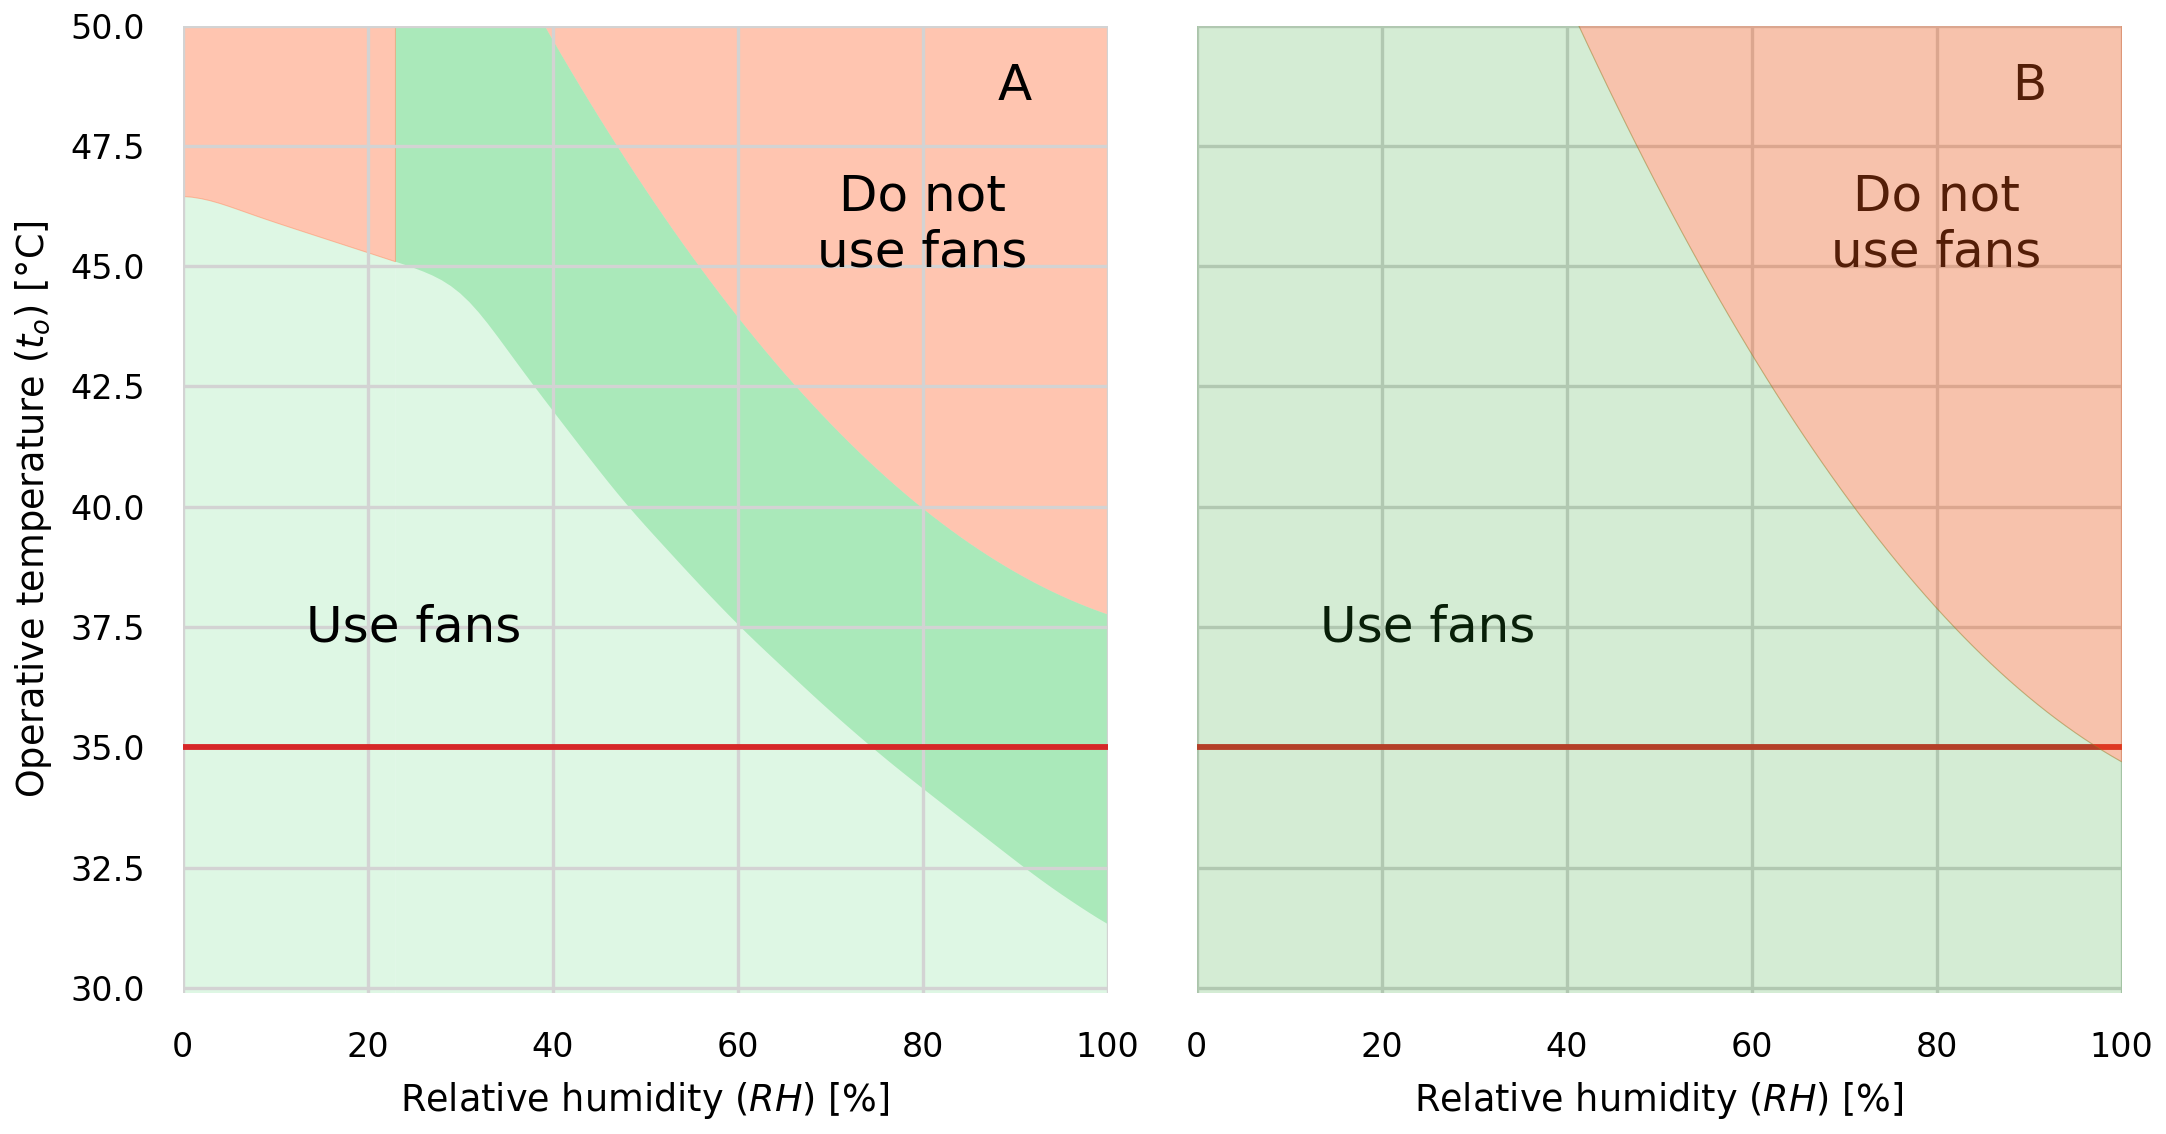
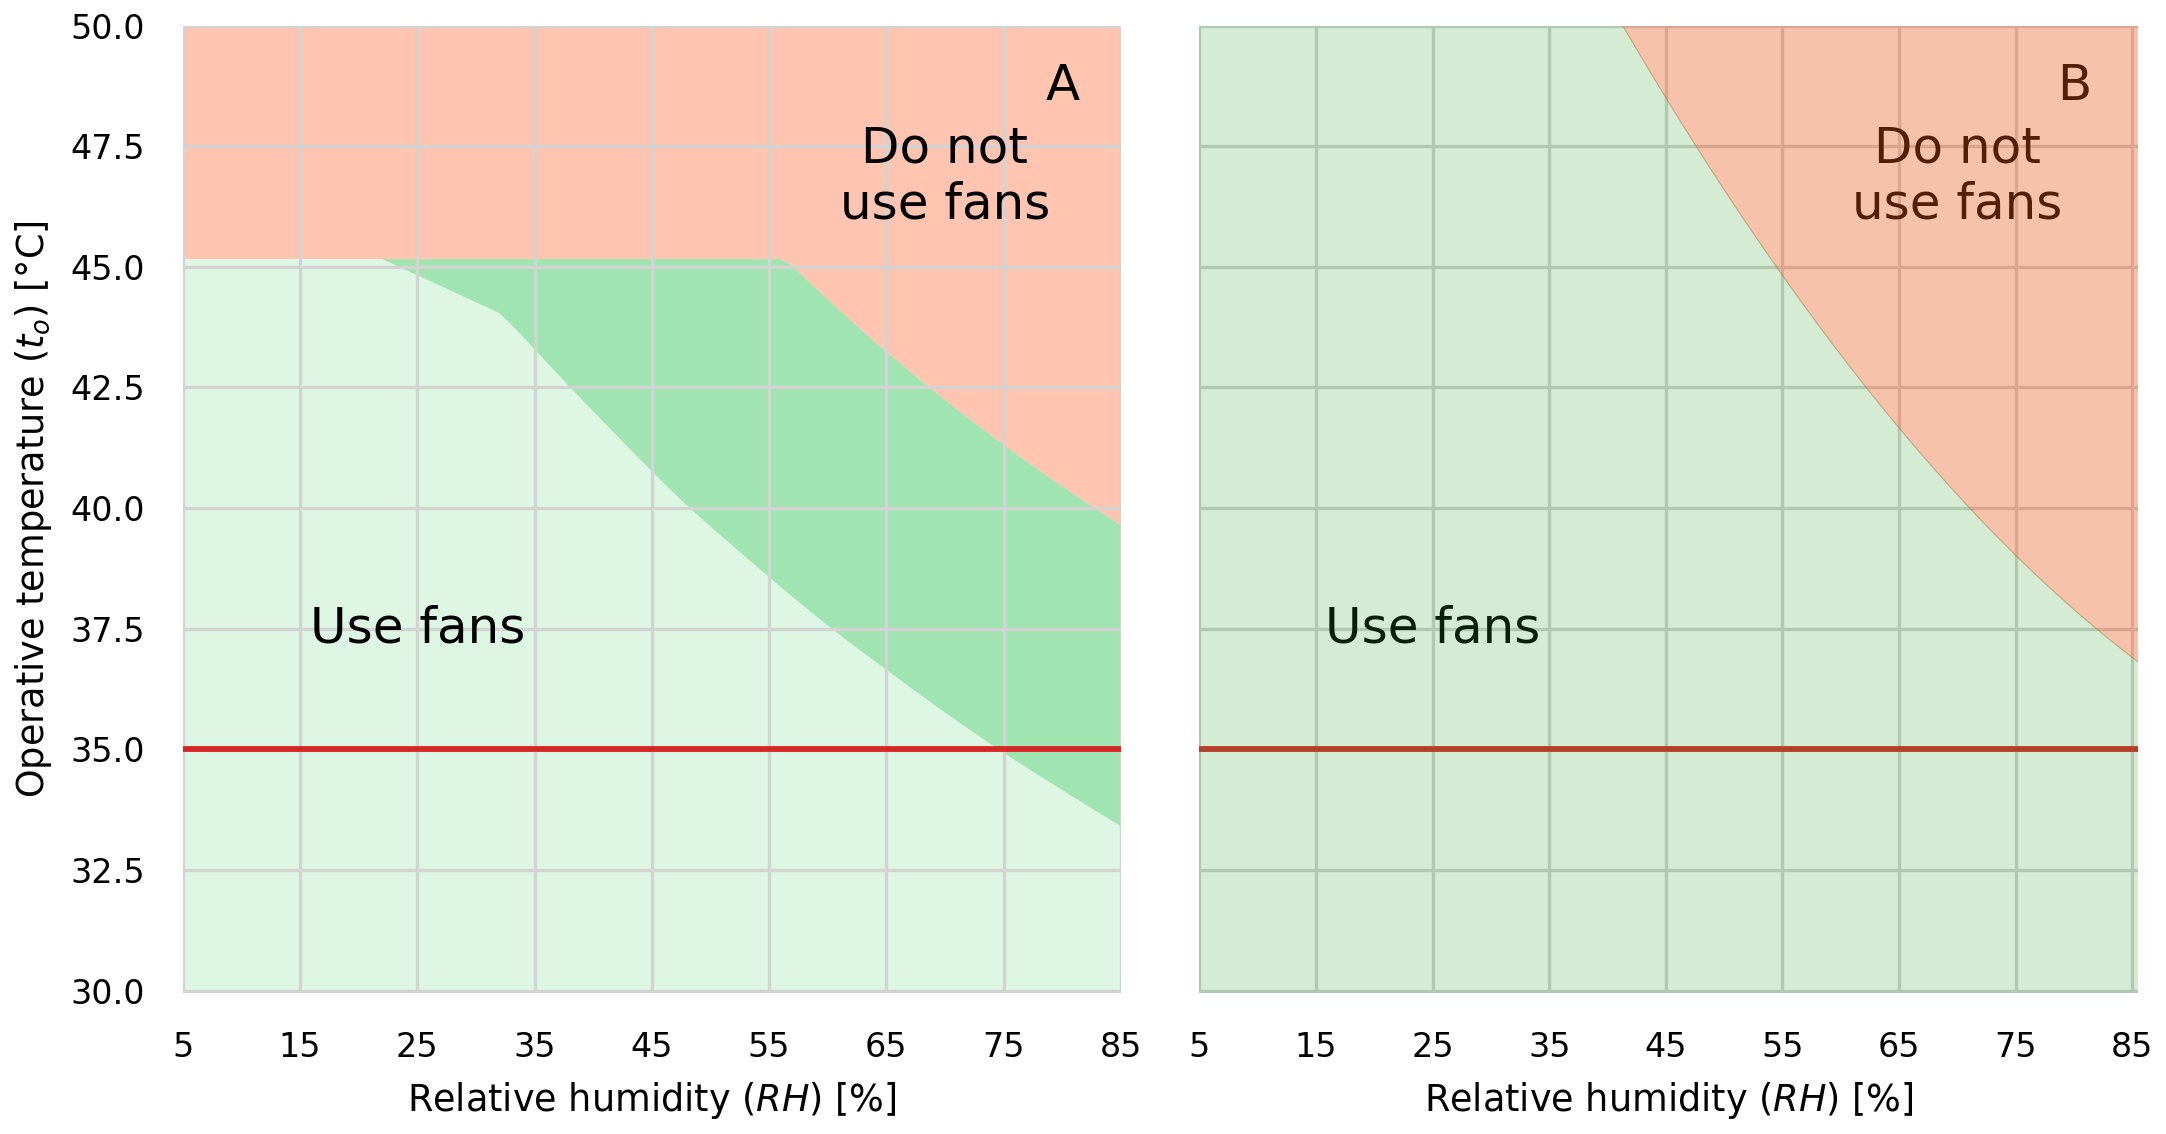
feat: generated new figures for the results section and reviewed text.

diff --git a/manuscript/src/sections/results.tex b/manuscript/src/sections/results.tex
@@ -118,27 +118,26 @@ The environmental conditions above which the use of elevated air speeds would be
 
 We used a red shading to highlight the region in which electric fans should not be used, while we used a green background to depict when elevated air speed can be used to cool the human body.
 We also plotted the lines above which thermal stress is expected to occur (see Figure~\ref{fig:comparison_air_speed} for more details).
-As previously mentioned in Section~\ref{subsec:heat-stress} where the heat stress curve for elevated air speeds is lower than the one for `still air' electric fan should not be used.
- However, as shown in Figure~\ref{fig:use_fans_experimental} the enthalpy in the great majority of this region is equal or lower than the enthalpy of the air in the green region.
- Consequently evaporative cooling can be used to first reduce \ac{t-db} to a value within the green region and subsequently electric fans can be safely used.
- Other cooling strategies, such as active cooling, can also be used to cool the air.
- However, we are emphasising the importance of using evaporative cooling since we are assuming that people who mostly rely on electric fans for cooling may not have access to compressor-based air conditioning.
+Electric fan should not be used, for \ac{t-db} higher than the one at which the heat stress curve for elevated air speeds intersect the one for `still air' conditions.
 In the dark green area, while the use of fans is still beneficial, not all adult healthy individuals would be able to compensate for endogenous and exogenous heat gains and may experience heat strain.
 
-To validate \mycite{GaggeSET} model results we used experimental data previously published.
+We also compared \mycite{GaggeSET} model results with those from laboratory-based physiological studies.
 In Figure~\ref{fig:use_fans_experimental} we present the results obtained by \mycite{Morris2019} and \mycite{Rate2015}.
 The former determined that electric fans (\ac{v}~=~2.0~m/s) are beneficial when \ac{t-db}~=~40~$^{\circ}$C and \ac{rh}~=~51~\%, but should not be used when \ac{t-db}~=~47~$^{\circ}$C and \ac{rh}~=~15~\%.
 \mycite{Rate2015} concluded that electric fans (\ac{v}~=~4.0~m/s) help in preventing heat-related elevation in heart rate and \ac{t-cr} in both of the following conditions \ac{t-db}~=~42~$^{\circ}$C and \ac{rh}~=~50~\%, and \ac{t-db}~=~36~$^{\circ}$C and \ac{rh}~=~80~\%.
 Results obtained with the \mycite{GaggeSET} model are in agreement with those obtained by both field experiments.
 
-As previously mentioned before, the enthalpy of the air in \mycite{Morris2019} experiment was lower in the scenario with higher temperature and lower \ac{rh}.
+As previously mentioned, the enthalpy of the air in \mycite{Morris2019} experiment was lower in the scenario with higher temperature and lower \ac{rh}.
 The black dashed lines, in Figure~\ref{fig:use_fans_experimental}, are isoenthalpic lines passing through the conditions studied by \mycite{Morris2019}.
-Evaporative cooling technologies could, therefore, be used to reduce the value of \ac{t-db} and avoid heat strain.
+As shown in Figure~\ref{fig:use_fans_experimental} the enthalpy of hot and dry air (\ac{rh}~$<$~35~\%) is equal or lower than the enthalpy of the air in the green region.
+Consequently evaporative cooling can be used to first reduce \ac{t-db} to a value within the green region and subsequently electric fans can be safely used.
 Evaporative cooling can be achieved by spraying water in the air or even by placing wet towels near the electric fan.
+Other cooling strategies, such as active cooling, can also be used to cool the air.
+However, we are emphasising the importance of using evaporative cooling since we are assuming that people who mostly rely on electric fans for cooling may not have access to compressor-based air conditioning.
 
 Finally, we compared the results obtained using the \mycite{GaggeSET} with those obtained using the \ac{phs}~\cite{iso7933} and we present the results in Figure~\ref{fig:gagge_phs}.
 Results were obtained by comparing the `still air condition' with \ac{v}~=~0.8~m/s, and the predictions of both models overall are similar.
-The \ac{phs} model fails to predict that fans should not be used for \ac{rh} values lower than 20~\% and \ac{t-db} above 46~$^{\circ}$C\@.
+The \ac{phs} model fails to predict that fans should not be used in dry climates when the \ac{t-db} exceeds \var{t_cutoff_v_08}~$^{\circ}$C\@.
 On the other hand \ac{phs} results are more conservative for high values of \ac{rh}, with the \ac{phs} model discouraging the use of elevated air speeds for \ac{t-db}~=~37.5~$^{\circ}$C and \ac{rh}~=~90~\%\@.
 It should be noted that these latter conditions are extremely rare worldwide.
 
@@ -180,10 +179,9 @@ Each marker shows where the city is located, the dot size is proportional to the
 In 2020, a total of approximately 650 million people (8~\% percent of the global population) lived in the urban agglomerate of the 115 largest cities.
 In 95 of these cities, \ac{t-db} higher than 35~$^{\circ}$C\@ were recorded and their total population was approximately 550 million people.
 
-We estimated that \var{cities_benefit_fan_08} of the most populous cities the use of electric fans that can generate \ac{v} up to 0.8~m/s would be beneficial.
-The \mycite{GaggeSET} model predicted that healthy adults living in \var{cities_benefit_fan_02} cities (approximately \var{people_no_strain_still_air} million inhabitants) should not experience heat strain even without increasing air movement. 
+The model predicts that \var{people_no_strain_v_08} million inhabitants, living in \var{cities_benefit_fan_08} of the most populous cities, would be better off using electric fans (\ac{v} up to 0.8~m/s) rather than not using them and they should not experience heat strain.
+The \mycite{GaggeSET} model predicted that healthy adults living in \var{cities_benefit_fan_02} cities (approximately \var{people_no_strain_still_air} million inhabitants) should not experience heat strain even without increasing air movement.
 However, they should still be encouraged in using electric fans to improve their thermal conditions in an energy-efficient way.
-The model also predicts that \var{people_no_strain_v_08} million inhabitants would be better off using electric fans (\ac{v} up to 0.8~m/s) rather than not using them and they should not experience heat strain.
 
 \begin{figure*}[hbt!]
     \centering
@@ -208,5 +206,3 @@ It should be noted, that in these conditions the maximum predicted difference in
     \caption{Predicted \acf{m-sweat} at different combinations of \acf{t-db} and \acf{rh} for two values \acf{v}~=~0.2~m/s and 0.8~m/s.}
     \label{fig:sweat_rate}
 \end{figure*}
-
-% note OJ Did you compare these estimated data to those reported in our physiological studies? Might be helpful

diff --git a/code/main.py b/code/main.py
@@ -1260,7 +1260,7 @@ class DataAnalysis:
 
         alpha = 0.45
 
-        rh_arr = np.arange(36, 105, 1)
+        rh_arr = np.arange(32, 105, 1)
         tmp_low = []
 
         def function(x):
@@ -1288,7 +1288,7 @@ class DataAnalysis:
         for rh in rh_arr:
 
             try:
-                tmp_low.append(optimize.brentq(function, 30, 130))
+                tmp_low.append(optimize.brentq(function, 32.5, 55))
             except ValueError:
                 tmp_low.append(np.nan)
 
@@ -1349,6 +1349,11 @@ class DataAnalysis:
             if heat_strain[air_speeds[0]][rh] + 0.1 >= heat_strain[air_speeds[1]][rh]:
                 t_cutoff = heat_strain[air_speeds[0]][rh]
                 rh_cutoff = rh
+
+        save_var_latex(
+            f"t_cutoff_v_{air_speeds[1]}".replace(".", ""),
+            round(t_cutoff, 1),
+        )
 
         x_new, y_new = rh_arr, tmp_low
 
@@ -1466,20 +1471,28 @@ class DataAnalysis:
             arr_rh.append(
                 psychrolib.GetRelHumFromHumRatio(row["db_max"], hr, 101325) * 100
             )
-            # arr_rh.append(
-            #     psychrolib.GetRelHumFromTWetBulb(row["db_max"], row["wb_max"], 101325)
-            #     * 100
-            # )
         df_queried["rh"] = [round(x * 2) / 2 for x in arr_rh]
+
+        t_cut_off = {}
 
         for ix, v in enumerate([0.2, 0.8, 4.5]):
 
-            heat_strain_v = self.heat_strain[v]
+            heat_strain_v = self.heat_strain[v].copy()
 
             df_queried[f"exc_t_crit_{str(v).replace('.', '')}"] = [
                 1 if x[1] > heat_strain_v[x[0]] else 0
                 for x in df_queried[["rh", "db_max"]].values
             ]
+
+            if v != 0.2:
+                for rh in self.heat_strain[v].keys():
+                    if self.heat_strain[0.2][rh] >= self.heat_strain[v][rh]:
+                        t_cut_off[v] = self.heat_strain[0.2][rh]
+
+                df_queried.loc[
+                    df_queried["db_max"] > t_cut_off[v],
+                    f"exc_t_crit_{str(v).replace('.', '')}",
+                ] = 1
 
         per_locations_fans_beneficial = (
             100
@@ -1574,6 +1587,8 @@ class DataAnalysis:
             )
         df_queried["rh"] = [round(x * 2) / 2 for x in arr_rh]
 
+        t_cut_off = {}
+
         for ix, v in enumerate([0.2, 0.8, 4.5]):
 
             heat_strain_v = self.heat_strain[v]
@@ -1582,9 +1597,22 @@ class DataAnalysis:
                 1 if x[1] > heat_strain_v[x[0]] else 0
                 for x in df_queried[["rh", "db_max"]].values
             ]
+
+            if v != 0.2:
+                for rh in self.heat_strain[v].keys():
+                    if self.heat_strain[0.2][rh] >= self.heat_strain[v][rh]:
+                        t_cut_off[v] = self.heat_strain[0.2][rh]
+
+                df_queried.loc[
+                    df_queried["db_max"] > t_cut_off[v],
+                    f"exc_t_crit_{str(v).replace('.', '')}",
+                ] = 1
+
             df_queried[f"t_crit_{str(v).replace('.', '')}"] = [
                 heat_strain_v[x] for x in df_queried["rh"]
             ]
+
+        # df_queried[df_queried["db_max"] < 45.2].count()
 
         print("cities would benefit from use fans")
         cities_benefit_use_fans = (
@@ -2022,8 +2050,8 @@ class DataAnalysis:
         )
 
         ax[1].set(
-            ylim=(29.9, 50),
-            xlim=(0, 100),
+            xlim=(5, 85.5),
+            xticks=(np.arange(5, 95, 10)),
             xlabel=chart_labels["rh"],
         )
 
@@ -2036,8 +2064,8 @@ class DataAnalysis:
             va="center",
         )
         ax[1].text(
-            80,
-            45,
+            70,
+            46,
             "Do not\nuse fans",
             size=12,
             ha="center",
@@ -2058,17 +2086,15 @@ class DataAnalysis:
             va="center",
         )
         ax[0].text(
-            80,
-            45,
+            70,
+            46,
             "Do not\nuse fans",
             size=12,
             ha="center",
         )
 
-        # ax[1].get_legend().remove()
-
-        ax[0].text(90, 48.75, "A", size=12, ha="center", va="center")
-        ax[1].text(90, 48.75, "B", size=12, ha="center", va="center")
+        ax[0].text(80, 48.75, "A", size=12, ha="center", va="center")
+        ax[1].text(80, 48.75, "B", size=12, ha="center", va="center")
 
         ax[0].grid(c="lightgray")
         ax[0].xaxis.set_ticks_position("none")
@@ -2079,64 +2105,6 @@ class DataAnalysis:
             plt.savefig(os.path.join(self.dir_figures, "phs_gagge.png"), dpi=300)
         else:
             plt.show()
-
-        # df_ashrae = pd.read_sql(
-        #     'SELECT "n-year_return_period_values_of_extreme_WB_20_max" as wb_max_50 '
-        #     "FROM data",
-        #     con=self.conn,
-        # )
-        #
-        # df_ashrae[["wb_max_50"]] = df_ashrae[["wb_max_50"]].apply(
-        #     pd.to_numeric, errors="coerce"
-        # )
-        #
-        # from mpl_toolkits.axes_grid1.inset_locator import zoomed_inset_axes
-        # from mpl_toolkits.axes_grid1.inset_locator import mark_inset
-        #
-        # fig, ax = plt.subplots()
-        # sns.histplot(x=df_ashrae["wb_max_50"])
-        # ax.set_ylim(0, 500)
-        # axins = zoomed_inset_axes(ax, 4, loc=1)
-        # sns.histplot(x=df_ashrae["wb_max_50"])
-        # axins.set_xlim(35, 41)
-        # axins.set_ylim(0, 10)
-        # mark_inset(ax, axins, loc1=2, loc2=4, fc="none", ec="0.5")
-        # plt.draw()
-        # plt.tight_layout()
-        #
-        # if save_fig:
-        #     plt.savefig(os.path.join(self.dir_figures, "t_wb_extreme.png"), dpi=300)
-        # else:
-        #     plt.show()
-        #
-        # ###################################
-        # pivot_results = {}
-        #
-        # for v in [0.2, 0.8]:
-        #
-        #     results = []
-        #     for tdb in range(30, 52, 1):
-        #         for rh in range(0, 100, 1):
-        #             result = phs(
-        #                 tdb=tdb, tr=tdb, rh=rh, v=v, met=1.1 * 58.2, clo=0.5, posture=2
-        #             )
-        #             result["tdb"] = tdb
-        #             result["rh"] = rh
-        #             results.append(result)
-        #
-        #     df = pd.DataFrame.from_dict(results)
-        #
-        #     pivot = df.pivot("tdb", "rh", "d_lim_t_re")
-        #     pivot = pivot.sort_index(ascending=False)
-        #     pivot_results[v] = pivot.values
-        #
-        # delta_t_re = pivot_results[0.8] - pivot_results[0.2]
-        # df = pd.DataFrame(delta_t_re, index=pivot.index, columns=pivot.columns)
-        # plt.figure()
-        # ax = sns.heatmap(df, vmax=0)
-        # plt.title(f"velocity {v}")
-        # plt.tight_layout()
-        # plt.show()
 
 
 def save_var_latex(key, value):
